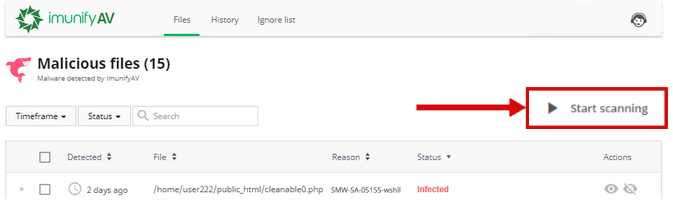
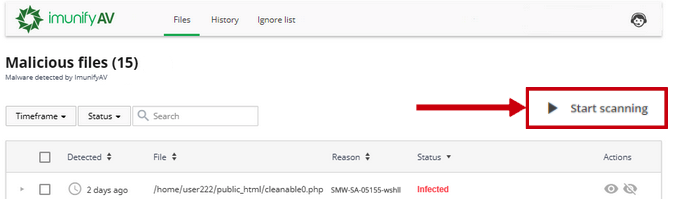
PT-1870: Reworked the low-quality screenshots in the ImunifyAV docs

Changed region(s): [[0.0, 0.2687, 0.2496, 0.4179], [0.7801, 0.4179, 0.9985, 0.4478], [0.6241, 0.9254, 0.6553, 0.9552]]

diff --git a/docs/imunifyav/README.md b/docs/imunifyav/README.md
@@ -285,9 +285,8 @@ Click _ImunifyAV_ in the main menu. There are following tabs in ImunifyAV hoster
 
 Go to ImunifyAV → Users tab. Here, there is a table with a list of users on the server, except users with root privileges.
 
-| ![ImunifyAV → Users tab](/images/avhosteruserstab_zoom70.png) |
+| ![ImunifyAV → Users tab](/images/AVUsersList.png)| 
 |:--:| 
-| *ImunifyAV → Users tab* |
 
 The table has the following columns:
 
@@ -327,9 +326,8 @@ Starting from ImunifyAV(+) v. 5.5, all filter and view options are stored in the
 
 Go to ImunifyAV → Files tab. Here, there is a table with a list of infected files within all domains and user accounts.
 
-| ![ImunifyAV → Files tab](/images/avhosterfiles_zoom70.png) |
-|:--:| 
-| *ImunifyAV → Files tab* |
+| ![ImunifyAV → Files tab](/images/AVFilesTab.png) |
+|:--:|
 
 The table has the following columns:
 
@@ -394,18 +392,13 @@ If ImunifyAV is running on CloudLinux OS, LVE is used to manage scan intensity. 
 
   2. Click _Start_.
 
-| ![](/images/malware_scanner_4_7.png) |
-|:--:| 
-| *ImunifyAV → Scan tab* |
+| ![](/images/AVMalwareScanner.png) |
+|:--:|
 
 At the top right corner scanning progress and status are displayed:
 
 * **Scanner is stopped** means that there is no scanning process running.
 * **Scanning…%** means that the scanner is working at the moment. A percentage displays the scanning progress. You can also see the scanning status beneath the _Mask_ or _Advanced_ options.
-
-| <img src="/images/imunifyscan.png" alt="Imunify Scan" width="670" height="293"/> |
-|:--:| 
-| *ImunifyAV → Scan tab* |
 
 When scanning is completed, the results are shown in the table below with the following information:
 
@@ -417,8 +410,7 @@ When scanning is completed, the results are shown in the table below with the fo
   * **View report** — click _View Report_ icon to go to the _Files_ tab and display the results of the last scan.
 
 | ![](/images/hosterscantable_zoom70.png) |
-|:--:| 
-| *ImunifyAV → Scan table* |
+|:--:|
 
 The following filters are available:
 
@@ -432,8 +424,7 @@ Starting from ImunifyAV(+) v. 5.5, all filter and view options are stored in the
 :::
 
 | <img src="/images/scan_filter.png" alt="Scan Filter" width="186" height="343"/> |
-|:--:| 
-| *Scan table → Filter* |
+|:--:|
 
 
 ### History
@@ -441,8 +432,7 @@ Starting from ImunifyAV(+) v. 5.5, all filter and view options are stored in the
 The _History_ tab contains data of all actions for all files. Go to ImunifyAV → History tab. Here, there is a table with a list of files within all domains.
 
 | ![](/images/avhosterhistory_zoom70.png) |
-|:--:| 
-| *ImunifyAV → History tab* |
+|:--:|
 
 The table has the following columns:
 
@@ -477,10 +467,8 @@ Starting from ImunifyAV(+) v. 5.5, all filter and view options are stored in the
 
 The _Ignore List_ tab contains the list of files that are excluded from Malware Scanner scanning. Go to ImunifyAV → Ignore List tab. Here, there is a table with a list of files within all domains.
 
-| ![](/images/avhosterignorelist_zoom70.png) |
+| ![](/images/AVIgnoreList.png) |
 |:--:| 
-| *ImunifyAV → Ignore list tab* |
-
 The table has the following columns:
 
 * **Added** — the date when the file was added to the Ignore list.
@@ -507,9 +495,8 @@ Starting from ImunifyAV(+) v. 5.5, all filter and view options are stored in the
 
 Features Management tab allows to enable or disable ImunifyAV features for each customer. Go to ImunifyAV → Features Management tab.
 
-| ![](/images/avhosterfeaturesmanagement_zoom70.png) |
-|:--:| 
-| *ImunifyAV → Features Management tab* |
+| ![](/images/AVFeaturesManagement.png) |
+|:--:|
 
 To enable Malware Cleanup feature for new users by default, move the _Malware Cleanup_ slider.
 
@@ -553,16 +540,15 @@ At the top of the page (also in the main menu near Reputation Management item), 
 The table shows:
 
 * _ID_ – domain owner username
-* _URL_ – the affected domain link
-* _Type_ – read more about types [on the link](https://developers.google.com/safe-browsing/v4/reference/rest/v4/ThreatType) (we still do not support THREAT_TYPE_UNSPECIFIED and POTENTIALLY_HARMFUL_APPLICATION).
-* _Detection time_ – exact time when the Reputation Management has detected the domain
+* _Domain_ – the affected domain link
+* _Threat type_ – read more about types [on the link](https://developers.google.com/safe-browsing/v4/reference/rest/v4/ThreatType) (we still do not support THREAT_TYPE_UNSPECIFIED and POTENTIALLY_HARMFUL_APPLICATION)
+* _Vendor_ – where the threat was detected
+* _Detection time_ – exact time when the Reputation Management detected the domain
+* _Action_ – a link to the actions guide
 
-| ![](/images/reputation.png) |
+| ![](/images/AVReputationManagement1.png) |
 |:--:| 
-| *ImunifyAV → Reputation Management* |
 
-
-Click link icon in the _Action_ column to copy the URL to the clipboard.
 
 ::: tip Note
 Reputation Management online and browser look may differ. This is because Google Safe Browsing has an issue described on github.
@@ -587,9 +573,8 @@ Go to ImunifyAV → Settings tab to set up the behaviour of ImunifyAV scanner. H
 
 #### Resource consumption
 
-| ![ImunifyAV → Settings → Resource consumption](/images/ResourceConsumption.png) |
+| ![ImunifyAV → Settings → Resource consumption](/images/AVSettingsResourceConsumption.png) |
 |:--:| 
-| *ImunifyAV → Settings → Resource consumption* |
 
 * **CPU consumption** – enables to set a level of CPU usage by Malware Scanner.
   
@@ -609,9 +594,8 @@ Go to ImunifyAV → Settings tab to set up the behaviour of ImunifyAV scanner. H
 
 #### General
 
-| ![ImunifyAV → Settings → General](/images/SettingsGeneral.png) |
-|:--:| 
-| *ImunifyAV → Settings → General* |
+| ![ImunifyAV → Settings → General](/images/AVSettingsGeneral.png) |
+|:--:|
 
 * **Automatically send suspicious and malicious files for analysis** – malicious and suspicious files will be sent to the ImunifyAV Team for analysis automatically.
 * **RapidScan** – dramatically speeds up repeated scans based on smart re-scan approach, local result caching and cloud-assisted scan. When you first enable the RapidScan feature, the first scan will run as before. But subsequent scans will see a dramatic speed improvement, anywhere between 5 to 20 times faster. You can find the details here: [https://docs.imunify360.com/features/#rapidscan](https://docs.imunify360.com/features/#rapidscan))
@@ -633,13 +617,8 @@ Allows to set up automatic, scheduled, background scanning of user accounts.
 The `Daily` and `Weekly` options are available for ImunifyAV+ and Imunify360 only.
 :::
 
-| <img src="/images/SettingsBackgroundScanning1.png" alt="SettingsBackgroundScanning1" width="512" height="176"/> |
+| ![ImunifyAV → Settings → Background Scanning](/images/AVBackgroundScanning.png) |
 |:--:| 
-| *ImunifyAV → Settings → Background Scanning* |
-
-| ![ImunifyAV → Settings → Background Scanning](/images/SettingsBackgroundScanning2.png) |
-|:--:| 
-| *ImunifyAV → Settings → Background Scanning* |
 
 Depending on the selected period, precise settings.
 
@@ -652,17 +631,15 @@ Depending on the selected period, precise settings.
 * **Trim file instead of removal** — do not remove infected file during cleanup but make the file zero-size (for malwares like web-shells);
 * **Keep original files for … days** — the original infected file is available for restore within the defined period. Default is 14 days.
 
-| <img src="/images/MalwareCleanup.png" alt="Malware Cleanup" width="556" height="203"/> |
+| ![](/images/AVSettingsCleanup.png)|
 |:--:| 
-| *ImunifyAV → Settings → Malware Cleanup* |
 
 #### Error reporting
 
 Tick the _Enable Sentry error reporting_ checkbox to send reports to ImunifyAV error reports server.
 
-| <img src="/images/ErrorReporting.png" alt="Error Reporting" width="445" height="150"/> |
+| ![](/images/AVSettingsErrorReporting.png) |
 |:--:| 
-| *ImunifyAV → Settings → Error reporting* |
 
 :::tip Note
 Starting from ImunifyAV(+) v. 5.5, all filter and view options are stored in the browser's local storage so you can select filter preference options once and next time you'll open the tab, the options will be preset.
@@ -700,13 +677,12 @@ Click _ImunifyAV_ in the main menu. There are following tabs in ImunifyAV end us
 
 Go to ImunifyAV → Files tab. Here, there is a table with a list of infected files.
 
-| ![ImunifyAV Hoster UI → Files tab](/images/avuserfiles_zoom70.png) |
+| ![ImunifyAV Hoster UI → Files tab](/images/AVUIFiles.png) |
 |:--:| 
-| *ImunifyAV Hoster UI → Files tab* |
 
 The table has the following columns:
 
-* **Detected** — displays the exact time when a file was detected as malicious
+* **Scan date** — displays the exact time when a file was detected as malicious
 * **File** — the path where the file is located starting with root
 * **Reason** — describes the signature which was detected during the scanning process. Names in this column depend on the signature vendor. You can derive some information from the signature ID itself. `SMW-SA-05155-wshll` – in this Signature ID:
 	* The first section can be either `SMW` or `CMW`. `SMW` stands for Server Malware and `CMW` stands for Client Malware
@@ -719,12 +695,12 @@ The table has the following columns:
   * **Cleaned** — infected file is cleaned up
   * **Content removed** — a file content was removed after cleanup
   * **Cleanup queued<sup> AV+</sup>** — infected file is queued for cleanup.
-Actions:
-* **Add to Ignore List** — add file to Ignore List and remove it from the Malicious files list. Note that if a file is added to Ignore List, ImunifyAV will no longer scan this file
-* **View file** — click _eye_ icon in the file line and the file content will be displayed in the popup. Only the first 100Kb of the file content will be shown in case if a file has bigger size
-* **Cleanup<sup> AV+</sup>** — click to cleanup the file.
-* **Delete<sup> AV+</sup>** — remove the file from the server and from the list of Malicious files.
-* **Restore original<sup> AV+</sup>** — click _Restore original_ to restore original file after cleaning up if backup is available.
+* **Actions**:
+  * **Add to Ignore List** — add file to Ignore List and remove it from the Malicious files list. Note that if a file is added to Ignore List, ImunifyAV will no longer scan this file
+  * **View file** — click _eye_ icon in the file line and the file content will be displayed in the popup. Only the first 100Kb of the file content will be shown in case if a file has bigger size
+  * **Cleanup<sup> AV+</sup>** — click to cleanup the file.
+  * **Delete<sup> AV+</sup>** — remove the file from the server and from the list of Malicious files.
+  * **Restore original<sup> AV+</sup>** — click _Restore original_ to restore original file after cleaning up if backup is available.
 
 To perform a bulk action, tick required users and click the corresponding button above the table.
 
@@ -741,10 +717,6 @@ The table can be sorted by detection date (Detected), file path (File), Reason, 
 :::tip Note
 Starting from ImunifyAV(+) v. 5.5, all filter and view options are stored in the browser's local storage so you can select filter preference options once and next time you'll open the tab, the options will be preset.
 :::
-
-| ![ImunifyAV+ End User UI → Files tab](/images/av+userfiles_zoom70.png) |
-|:--:| 
-| *ImunifyAV+ End User UI → Files tab* |
 
 If a user is allowed by an administrator to scan his files, he can see the *Start scanning* button. See also: [How to enable/disable the "Start scanning" button for ImunifyAV\AV+](/faq_and_known_issues/#how-to-enable-disable-the-start-scanning-button-for-imunifyav-av).
 
